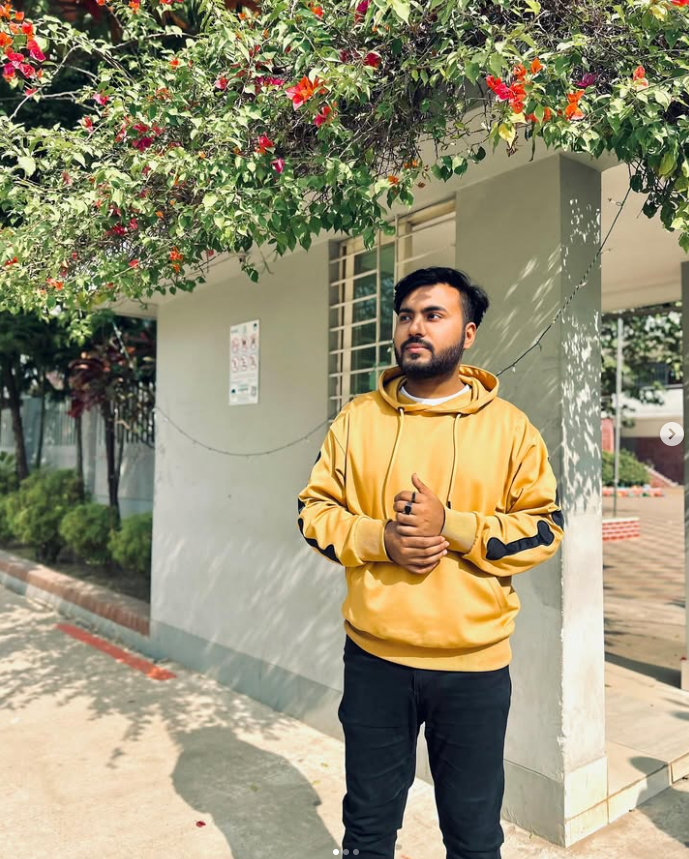
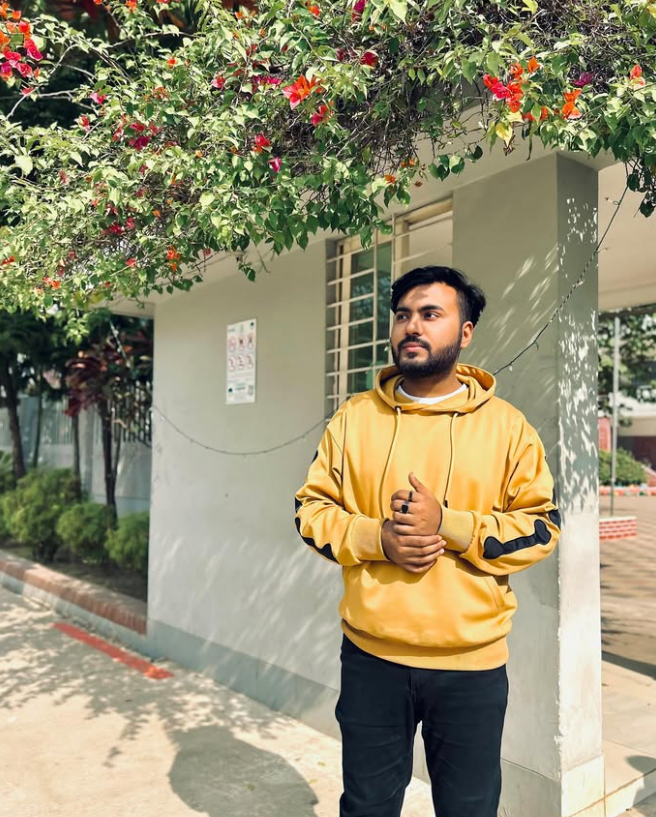
swiper js

diff --git a/src/components/about/About.jsx b/src/components/about/About.jsx
@@ -1,7 +1,9 @@
 import React from "react";
 import { motion } from "framer-motion";
 
-import nomanImg from "../../assets/noman2.png";
+import noman1Img from "../../assets/noman.png";
+import noman2Img from "../../assets/noman2.png";
+import noman3Img from "../../assets/noman3.png";
 import { FaLocationDot } from "react-icons/fa6";
 import { IoMdMailUnread } from "react-icons/io";
 
@@ -100,35 +102,31 @@ export default function About() {
             pagination={{ clickable: true }}
             autoplay={{ delay: 2500 }}
             loop={true}
-            className="rounded-3xl overflow-hidden shadow-xl border border-gray-100"
+            className="rounded-3xl overflow-hidden shadow-xl border border-gray-100 h-[400px] md:h-[600px]"
           >
             <SwiperSlide>
               <img
-                src={nomanImg}
+                src={noman2Img}
                 alt="profile"
                 className="w-full h-full object-cover"
               />
             </SwiperSlide>
             <SwiperSlide>
               <img
-                src={nomanImg}
+                src={noman1Img}
                 alt="profile"
                 className="w-full h-full object-cover"
               />
             </SwiperSlide>
             <SwiperSlide>
               <img
-                src={nomanImg}
+                src={noman3Img}
                 alt="profile"
                 className="w-full h-full object-cover"
               />
             </SwiperSlide>
-
-            {/* Add more slides if you want */}
-            {/* <SwiperSlide>
-              <img src={anotherImg} alt="profile 2" className="w-full h-full object-cover" />
-            </SwiperSlide> */}
           </Swiper>
+
 
           {/* Floating Orange Circle */}
           <motion.div

diff --git a/src/components/experience/Experience.jsx b/src/components/experience/Experience.jsx
@@ -14,7 +14,7 @@ export default function Experience({
         <div className="text-center max-w-2xl mx-auto mb-12">
           <h2 className="text-4xl text-white font-bold mb-4">
             Experience &{" "}
-            <span className="bg-gradient-to-r from-purple-600 to-blue-500 text-transparent bg-clip-text inline-block">
+            <span className="bg-cyan-500 text-transparent bg-clip-text inline-block">
               Education
             </span>
           </h2>

diff --git a/src/components/skills/SkillGrid.jsx b/src/components/skills/SkillGrid.jsx
@@ -77,7 +77,7 @@ export default function SkillGrid() {
         <div className="text-center max-w-2xl mx-auto mb-12">
           <h2 className="text-4xl text-white font-bold mb-4">
             My{" "}
-            <span className="bg-gradient-to-r from-purple-600 to-blue-500 text-transparent bg-clip-text inline-block">
+            <span className="bg-cyan-500 text-transparent bg-clip-text inline-block">
               Skills
             </span>
           </h2>
